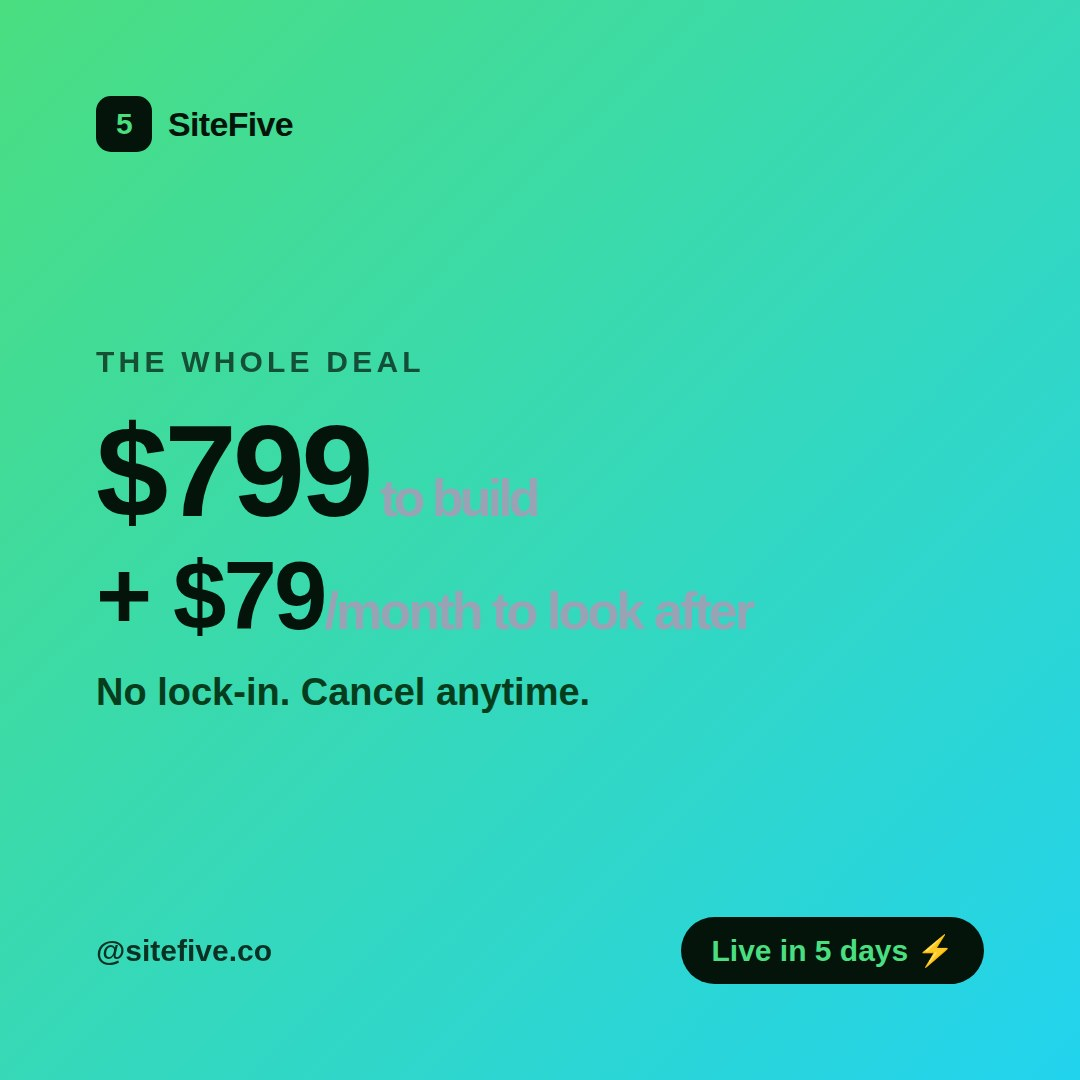
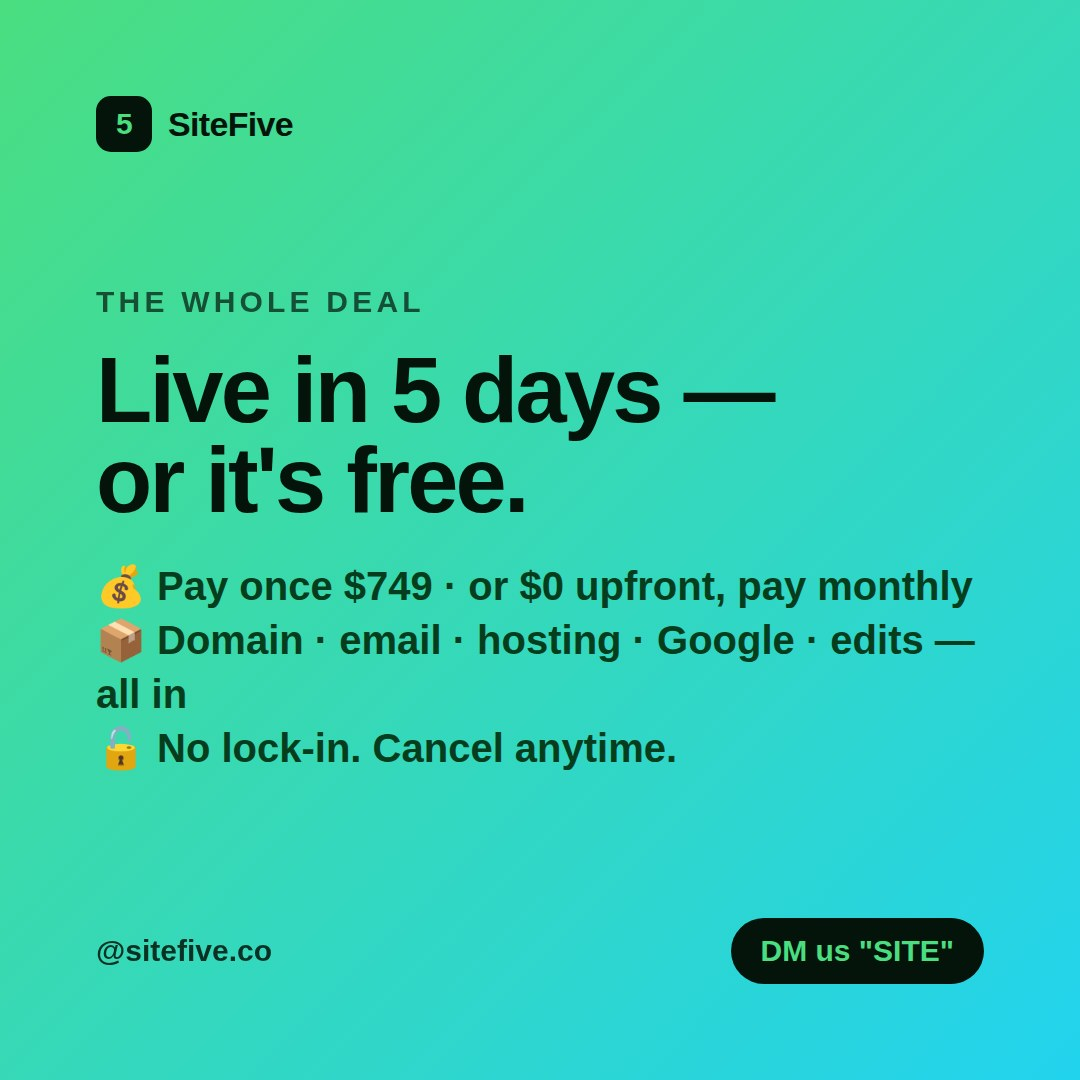
Reprice SiteFive as the best-value offer (guarantees, two pay options)
Market-researched repositioning:
- Two ways to pay: pay once ($749 + $79/mo) or pay monthly ($0 upfront,
  $119/mo, real no-lock-in) — beats competitors' term-locked "pay monthly"
- Three guarantees: live in 5 days or free, approve-before-you-pay, no lock-in
- "Everything included" bundle (domain, email, Google, hosting, edits)
- Founding offer ($499 first 5) + honest store/booking add-ons via Shopify/Stripe
- Synced hero trustline, FAQ, playbook, captions, contract, and offer post image

Claude-Session: https://claude.ai/code/session_01K2KzdWSiJn94q7AiK5yYhL

diff --git a/web-agency/index.html b/web-agency/index.html
@@ -136,6 +136,9 @@
   .price li::before{content:"✓"; color:var(--accent); font-weight:900; flex:0 0 auto}
   .price .btn{width:100%; justify-content:center}
   .price-note{text-align:center; color:var(--dim); font-size:14px; margin-top:26px}
+  .incl{display:grid; grid-template-columns:repeat(2,1fr); gap:11px 26px; font-size:15px; color:var(--muted); font-weight:600}
+  .incl span{display:flex; gap:8px}
+  @media(max-width:640px){ .incl{grid-template-columns:1fr} }
 
   /* testimonials */
   .quotes{display:grid; grid-template-columns:repeat(3,1fr); gap:20px}
@@ -216,10 +219,10 @@
         <a href="#work" class="btn btn-ghost">See our work</a>
       </div>
       <div class="trustline">
-        <span>✔ Live in <b>5 days</b></span>
-        <span>✔ From <b>$799</b></span>
+        <span>✔ Live in <b>5 days</b> or it's free</span>
+        <span>✔ <b>$0</b> upfront option</span>
         <span>✔ Built for <b>phones first</b></span>
-        <span>✔ No lock-in contracts</span>
+        <span>✔ No lock-in, ever</span>
       </div>
     </div>
   </section>
@@ -301,42 +304,63 @@
   <section id="pricing">
     <div class="wrap">
       <div class="section-head reveal">
-        <div class="eyebrow">Simple pricing</div>
-        <h2>One clear price. No surprises.</h2>
-        <p>A one-time build fee to create your site, then a small monthly care plan so it stays live, updated and looked after.</p>
+        <div class="eyebrow">The best deal in local web</div>
+        <h2>Everything included. You pick how you pay.</h2>
+        <p>Most Sydney agencies charge <b>$2,000–$8,000</b> to build, then <b>$200+/month</b> to maintain — and lock you in. We bundle the whole lot for a fraction of that, with no lock-in, ever.</p>
       </div>
+
       <div class="prices">
         <div class="price reveal">
-          <div class="k">The build</div>
-          <div class="amt">$799<small> once-off</small></div>
-          <p class="muted" style="font-size:14px">Everything to get you online and looking sharp.</p>
+          <div class="k">Pay once · own it</div>
+          <div class="amt">$749<small> to build</small></div>
+          <p class="muted" style="font-size:14px">Then just <b>$79</b>/month to host &amp; look after it.</p>
           <ul>
-            <li>Up to 3 pages, custom designed</li>
-            <li>Written for you (you don't write a word)</li>
-            <li>Mobile-first &amp; fast</li>
-            <li>Contact / booking / quote forms</li>
-            <li>Google &amp; Maps setup</li>
+            <li>Custom-designed site (up to 3 pages)</li>
+            <li>Written for you — you don't lift a finger</li>
             <li>Live in 5 days</li>
+            <li>You own the site outright, day one</li>
+            <li>Everything in "what's included" below</li>
           </ul>
           <a href="#book" class="btn btn-ghost">Get started</a>
         </div>
         <div class="price feature reveal">
-          <span class="tag">Keeps you sorted</span>
-          <div class="k">Care plan</div>
-          <div class="amt">$79<small>/month</small></div>
-          <p class="muted" style="font-size:14px">Cancel anytime. This is what keeps it effortless.</p>
+          <span class="tag">Nothing down</span>
+          <div class="k">Pay monthly · $0 upfront</div>
+          <div class="amt">$119<small>/month</small></div>
+          <p class="muted" style="font-size:14px">No build fee. <b>Cancel anytime</b> — truly no lock-in.</p>
           <ul>
-            <li>Hosting &amp; domain handled</li>
-            <li>Unlimited small edits &amp; updates</li>
-            <li>Security &amp; backups</li>
-            <li>Business email (you@yourbusiness)</li>
-            <li>Priority human support</li>
-            <li>Seasonal refreshes</li>
+            <li>Same site, same 5-day build</li>
+            <li>$0 to get started</li>
+            <li>Everything below, all rolled in</li>
+            <li>Cancel anytime — no exit fees</li>
+            <li>The site is yours after 12 months</li>
           </ul>
           <a href="#book" class="btn btn-primary">Book a free call</a>
         </div>
       </div>
-      <p class="price-note">Need something bigger — online store, more pages, bookings system? We do those too. Ask on the call.</p>
+
+      <div class="card reveal" style="max-width:840px; margin:24px auto 0">
+        <h3 style="margin-bottom:18px">Everything's included — no hidden add-ons</h3>
+        <div class="incl">
+          <span>✓ Free domain (first year)</span>
+          <span>✓ Business email (you@yourbusiness)</span>
+          <span>✓ Google Business + Maps setup</span>
+          <span>✓ Hosting, security &amp; backups</span>
+          <span>✓ Unlimited small edits</span>
+          <span>✓ Mobile-first &amp; lightning fast</span>
+          <span>✓ Contact / booking / quote forms</span>
+          <span>✓ Priority human support</span>
+        </div>
+      </div>
+
+      <div class="grid g3" style="margin-top:24px">
+        <div class="card reveal"><div class="ico">⚡</div><h3>Live in 5 days — or it's free</h3><p>Once you've sent your details, if we miss the 5-day deadline you don't pay the build. Simple as that.</p></div>
+        <div class="card reveal"><div class="ico">💚</div><h3>Don't love it? Don't pay</h3><p>You approve the design first. If you're not happy and we can't make it right, you pay nothing.</p></div>
+        <div class="card reveal"><div class="ico">🔓</div><h3>No lock-in, ever</h3><p>Month-to-month. Cancel anytime and we hand your site over. No contracts, no exit fees.</p></div>
+      </div>
+
+      <p class="price-note"><b>⭐ Founding offer:</b> the first 5 Sydney businesses get the build for <b>$499</b> (save $250) in exchange for a review. 🚀</p>
+      <p class="price-note" style="margin-top:8px">Want an <b>online store</b> or a <b>booking system</b>? We set those up on trusted platforms (Shopify, Stripe, Calendly) — quoted on the call.</p>
     </div>
   </section>
 
@@ -380,8 +404,8 @@
         <details><summary>What if I don't have a logo or photos?</summary><p>No problem. We can design a clean text-based logo and use professional stock imagery that fits your business, at no extra cost.</p></details>
         <details><summary>Do I own the website?</summary><p>Yes. The site is yours. The care plan covers hosting, updates and support — but you're never locked in, and you can cancel anytime.</p></details>
         <details><summary>What does the $79/month actually cover?</summary><p>Hosting, your domain, business email, security, backups, and unlimited small changes — swap a price, add a photo, update your hours — just message us. It's the "set and forget" part.</p></details>
-        <details><summary>Can you do more than a landing page?</summary><p>Absolutely. Multi-page sites, online booking, simple online stores and more. The 5-day landing page is our starting point — we scope bigger projects on the call.</p></details>
-        <details><summary>How do I pay?</summary><p>A 50% deposit to start, the rest when your site goes live. The monthly care plan begins once you're live. Bank transfer or card.</p></details>
+        <details><summary>Can you do more than a landing page?</summary><p>Absolutely. Online stores, booking systems, multi-page sites and more. We build those on trusted platforms (Shopify, Stripe, Calendly) so they're rock-solid and easy to run — quoted separately on the call. The 5-day landing page is just our starting point.</p></details>
+        <details><summary>How do I pay?</summary><p>Two ways: <b>pay once</b> ($749 to build — 50% deposit to start, the rest when it's live — then $79/month), or <b>pay monthly</b> ($0 upfront, $119/month, cancel anytime). Bank transfer or card.</p></details>
       </div>
     </div>
   </section>

diff --git a/web-agency/instagram/launch-posts.html b/web-agency/instagram/launch-posts.html
@@ -71,11 +71,10 @@
   <div class="brandrow"><span class="dot">5</span> SiteFive</div>
   <div class="spacer"></div>
   <div class="kick">The whole deal</div>
-  <div class="price-line">$799<small> to build</small></div>
-  <div class="price-line" style="font-size:96px;margin-top:10px">+ $79<small>/month to look after</small></div>
-  <div class="mini" style="color:#063d1c;font-weight:800">No lock-in. Cancel anytime.</div>
+  <h1 style="color:#04140a;font-size:92px">Live in 5 days —<br>or it's free.</h1>
+  <div class="sub" style="color:#063d1c;font-weight:800;font-size:40px;line-height:1.35">💰 Pay once $749 · or $0 upfront, pay monthly<br>📦 Domain · email · hosting · Google · edits — all in<br>🔓 No lock-in. Cancel anytime.</div>
   <div class="spacer"></div>
-  <div class="foot"><span class="handle">@sitefive.co</span><span class="cta">Live in 5 days ⚡</span></div>
+  <div class="foot"><span class="handle">@sitefive.co</span><span class="cta">DM us "SITE"</span></div>
 </div>
 
 <!-- 3 · BEFORE / AFTER -->

diff --git a/web-agency/PLAYBOOK.md b/web-agency/PLAYBOOK.md
@@ -23,11 +23,24 @@ Your one-stop guide. Everything you need to make money is in this folder. Follow
 
 ## The offer (memorise this)
 
-> **"A simple, beautiful website for your business, live in 5 days. $799 to build it, $79/month to keep it looked after. No lock-in."**
+> **"A simple, beautiful website for your business, live in 5 days — or it's free. Pay once ($749 + $79/mo) or pay monthly ($0 upfront, $119/mo). Everything included. No lock-in."**
+
+**Two ways for the client to pay** (offer both — some want to own it, some want nothing down):
+1. **Pay once** — $749 build + $79/month care plan. They own the site outright.
+2. **Pay monthly** — $0 upfront, $119/month, cancel anytime. The site becomes theirs after 12 months.
+
+**Your three guarantees** (this is what makes you the best deal — competitors don't offer these):
+- ⚡ **Live in 5 days or the build is free**
+- 💚 **Don't love the design? You don't pay** (they approve first)
+- 🔓 **No lock-in, ever** — cancel anytime, no exit fees
+
+**What's always included** (free): domain (yr 1), business email, Google Business setup, hosting, security, backups, unlimited small edits.
+
+**Founding offer:** first 5 clients get the build for **$499** (save $250) for a review.
 
 Two revenue streams:
-1. **Build fee** — $799 once-off (your quick cash).
-2. **Care plan** — $79/month recurring (the real business — this is what stacks).
+1. **Build fee** — $749 once-off, or spread into the monthly (your quick cash).
+2. **Care plan** — $79–$119/month recurring (the real business — this is what stacks).
 
 **Do the maths:** 20 clients on care plans = **$1,580/month recurring**, before you build a single new site. That's the goal. Chase the monthly plans on every single client.
 

diff --git a/web-agency/client-contract.md b/web-agency/client-contract.md
@@ -15,9 +15,13 @@ We'll design and build a website for your business — up to **[3] pages** — i
 We aim to have your site ready to review within **5 business days** of receiving everything we need from you (your completed intake form, logo, photos and any text). Delays in getting content from you may move this date.
 
 ## 3. Price & payment
-- **Build fee:** $[799] once-off. A **50% deposit ($[400])** is due before we start. The remaining 50% is due when the site is ready to go live.
-- **Care plan:** $[79]/month, starting when your site goes live. This covers hosting, your domain, business email, security, backups, and unlimited small edits. **You can cancel anytime** with 30 days' notice.
+Choose one:
+- **Pay once:** Build fee **$[749]** once-off — a **50% deposit ($[375])** before we start, the rest when the site goes live — then a **$[79]/month** care plan.
+- **Pay monthly:** **$0 upfront**, **$[119]/month**, cancel anytime. The website becomes yours outright after 12 months.
+- Either way the care/monthly plan covers hosting, your domain, business email, security, backups, and unlimited small edits. **No lock-in — cancel anytime** with 30 days' notice.
 - Payment by bank transfer or card to: [your payment details].
+
+**Our guarantees:** Live in 5 business days of receiving your content or the build is free · you approve the design before you pay · no lock-in.
 
 ## 4. What we need from you
 Your business details, logo (if you have one), photos, and any specific text — via the intake form. If you don't have a logo or photos, we'll use a clean text logo and suitable stock imagery.

diff --git a/web-agency/instagram/captions.md b/web-agency/instagram/captions.md
@@ -21,10 +21,11 @@ Set your bio to:
 
 ### Post 2 — `02-offer.jpg`
 > Here's the whole deal, no surprises 👇
-> 💻 $799 to build your site
-> 🔧 $79/month to host it, update it & handle all the tech
-> 🔓 No lock-in — cancel anytime
-> That's it. A proper website for less than most people spend on coffee in a year. **DM "SITE"** to start.
+> ⚡ Live in 5 days — **or it's free**
+> 💰 Pay once ($749) OR $0 upfront & pay monthly
+> 📦 Domain, email, hosting, Google setup, unlimited edits — all included
+> 🔓 No lock-in. Cancel anytime.
+> Most Sydney agencies charge $2,000–$8,000 for this. We don't. **DM "SITE"** to start.
 
 ### Post 3 — `03-before-after.jpg`
 > The difference a website makes 👀
